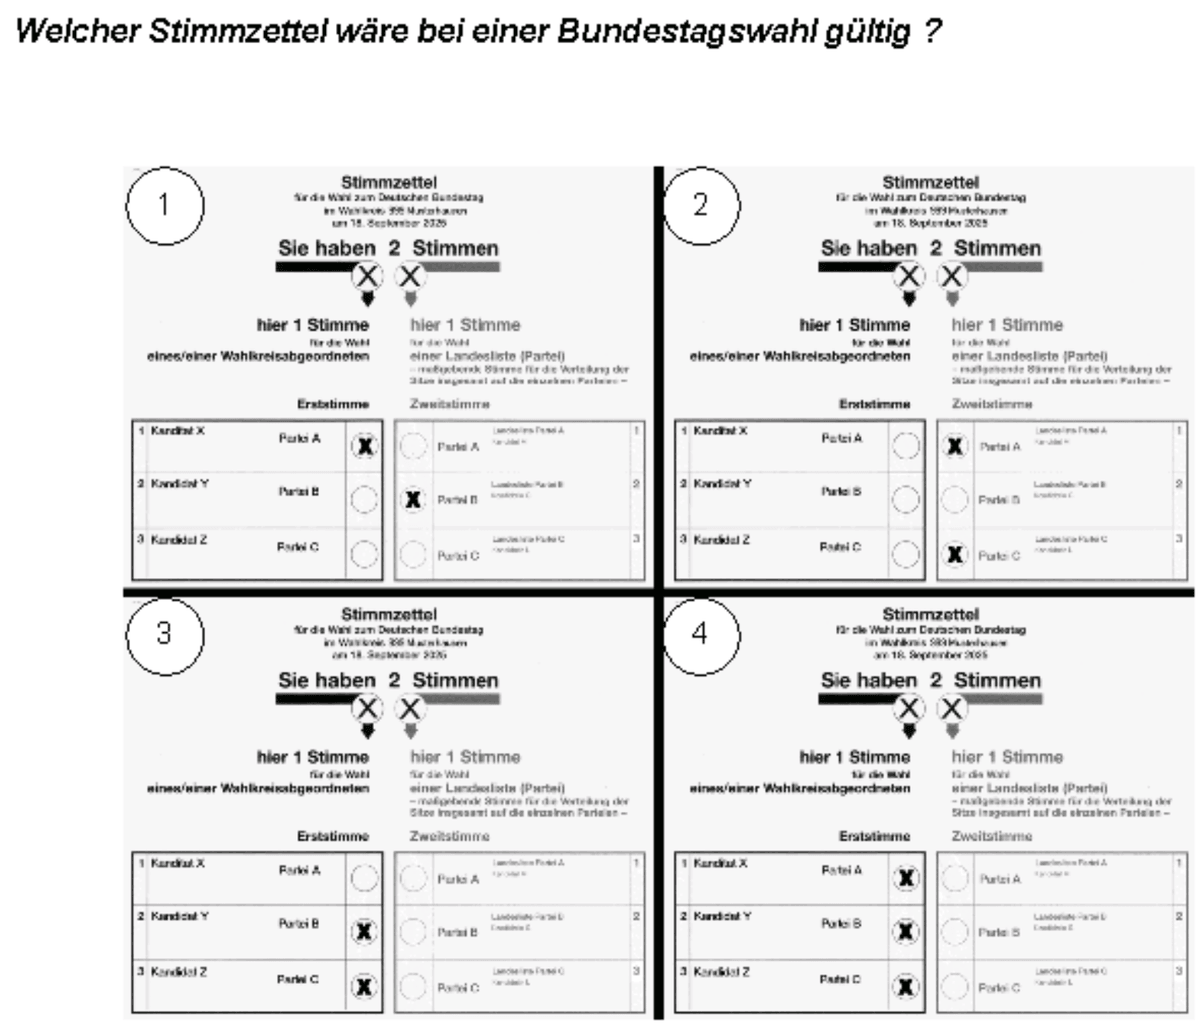
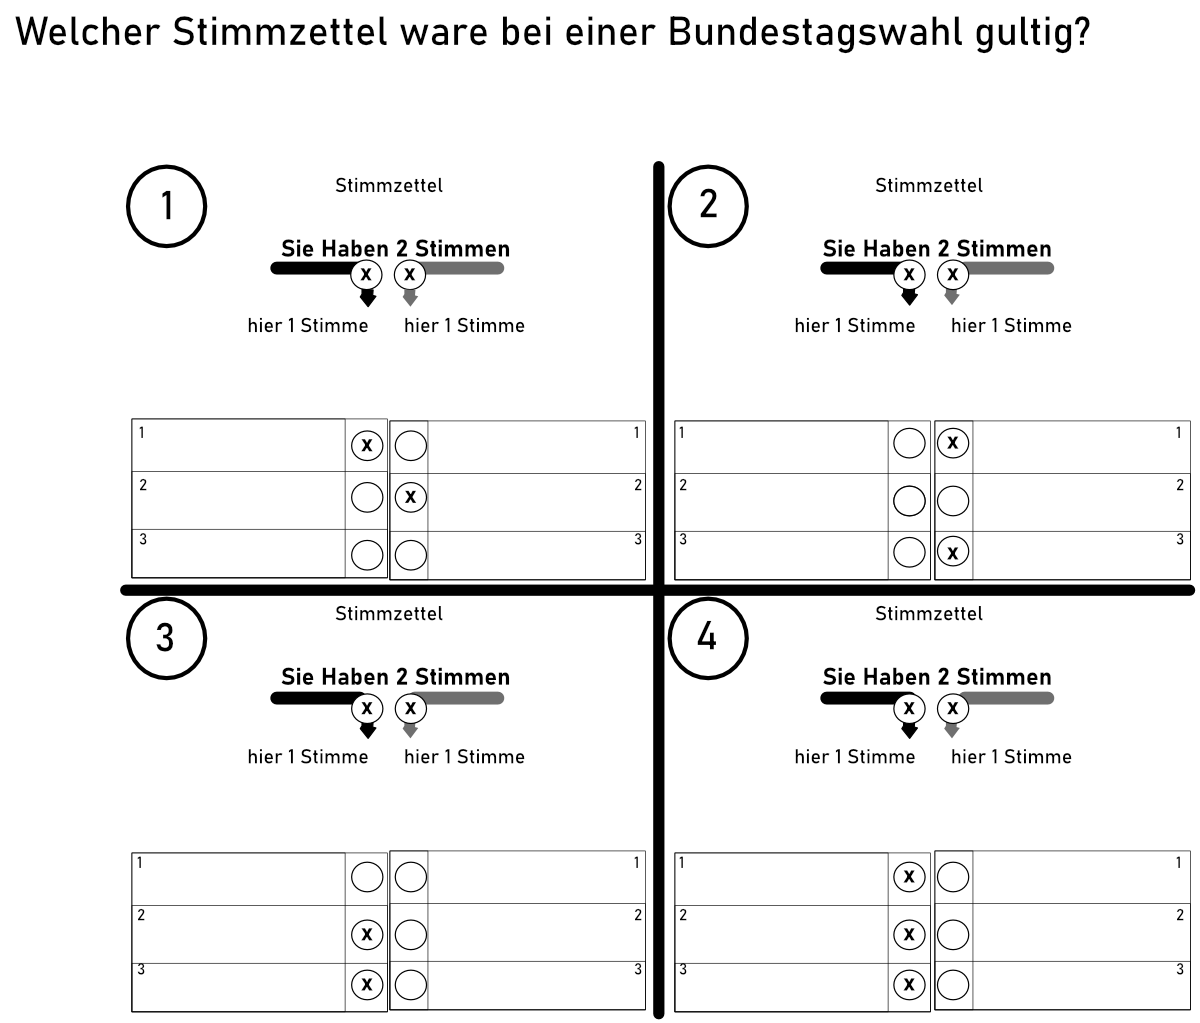
Replace B130 image with corrected redraw

Changed region(s): [[0.0925, 0.1515, 1.0, 1.0], [0.0, 0.0, 0.925, 0.0606], [0.0925, 0.1515, 0.185, 0.2424]]

diff --git a/README.md b/README.md
@@ -38,7 +38,7 @@ No web server is required; `data/questions.js`, `data/vocabulary.js` and `data/i
[1 lines of base64/hex data omitted]
   <https://www.bamf.de/SharedDocs/Anlagen/DE/Integration/Einbuergerung/gesamtfragenkatalog-lebenindeutschland.html?nn=284310>
 - **Answers, English translations, explanations and images**: [abdullahbutt/leben-in-deutschland-test](https://github.com/abdullahbutt/leben-in-deutschland-test), version 2026-10-28. **The German question and option wording is taken verbatim from the official BAMF PDF**; the dataset supplies the answer key, English translations, explanations and images. The translations and explanations are licensed under **CC BY-NC 4.0** (attribution, non-commercial use). `data/overrides.json` contains manual corrections for the few items where the dataset described a different paraphrase (e.g. B232, B247, HB02, SN07).
-- **B021, B055 and B070 images**: `data/images/21.png`, `data/images/55.png` and `data/images/70.png` are redrawn replacements added for this project; the remaining images come from the dataset.
+- **B021, B055, B070 and B130 images**: `data/images/21.png`, `data/images/55.png`, `data/images/70.png` and `data/images/130.png` are redrawn replacements added for this project; the remaining images come from the dataset.
 - This is an independent learning app, not an official BAMF product. Use is intended for personal, non-commercial exam preparation.
 
 ## Project layout
